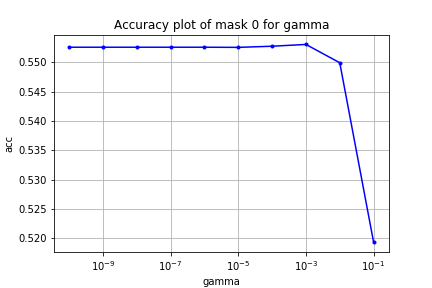
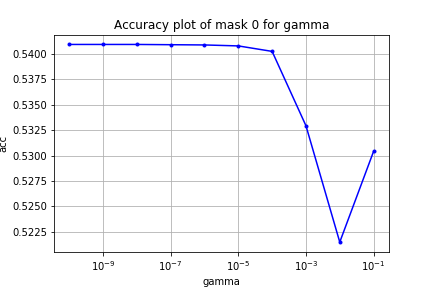
gd working

Changed region(s): [[0.0, 0.125, 0.9028, 0.8438]]

diff --git a/helpers.py b/helpers.py
@@ -2,11 +2,13 @@ import numpy as np
 from proj_helpers import predict_labels
 import matplotlib.pyplot as plt
 
-def compute_loss(y, tx, w):
+def compute_loss(y_o, tx, w):
+    y = y_o.reshape((len(y_o), 1))
     e = y - tx.dot(w)
-    return e.dot(e)/(2*len(e))
+    return e.T.dot(e)/(2*len(e))
 
-def compute_gradient(y, tx, w):
+def compute_gradient(y_o, tx, w):
+    y = y_o.reshape((len(y_o), 1))
     e = y - tx.dot(w)
     grad = -tx.T.dot(e)/len(e)
     return grad
@@ -52,12 +54,14 @@ def sigmoid(t):
     s[s > 0.99999999] = 0.99999999
     return s
 
-def compute_gradient_logistic(y, tx, w, lambda_=0):
+def compute_gradient_logistic(y_o, tx, w, lambda_=0):
+    y = y_o.reshape((len(y_o),1))
     pred = sigmoid(tx.dot(w))
     grad = tx.T.dot(pred - y) + 2*lambda_ * w
     return grad
 
-def compute_logistic_loss(y, tx, w, lambda_=0):
+def compute_logistic_loss(y_o, tx, w, lambda_=0):
+    y = y_o.reshape((len(y_o),1))
     pred = sigmoid(tx.dot(w))
     loss = y.T.dot(np.log(pred)) - (1-y).T.dot(np.log(1 - pred)) + lambda_+np.squeeze(w.T.dot(w))
     return loss
